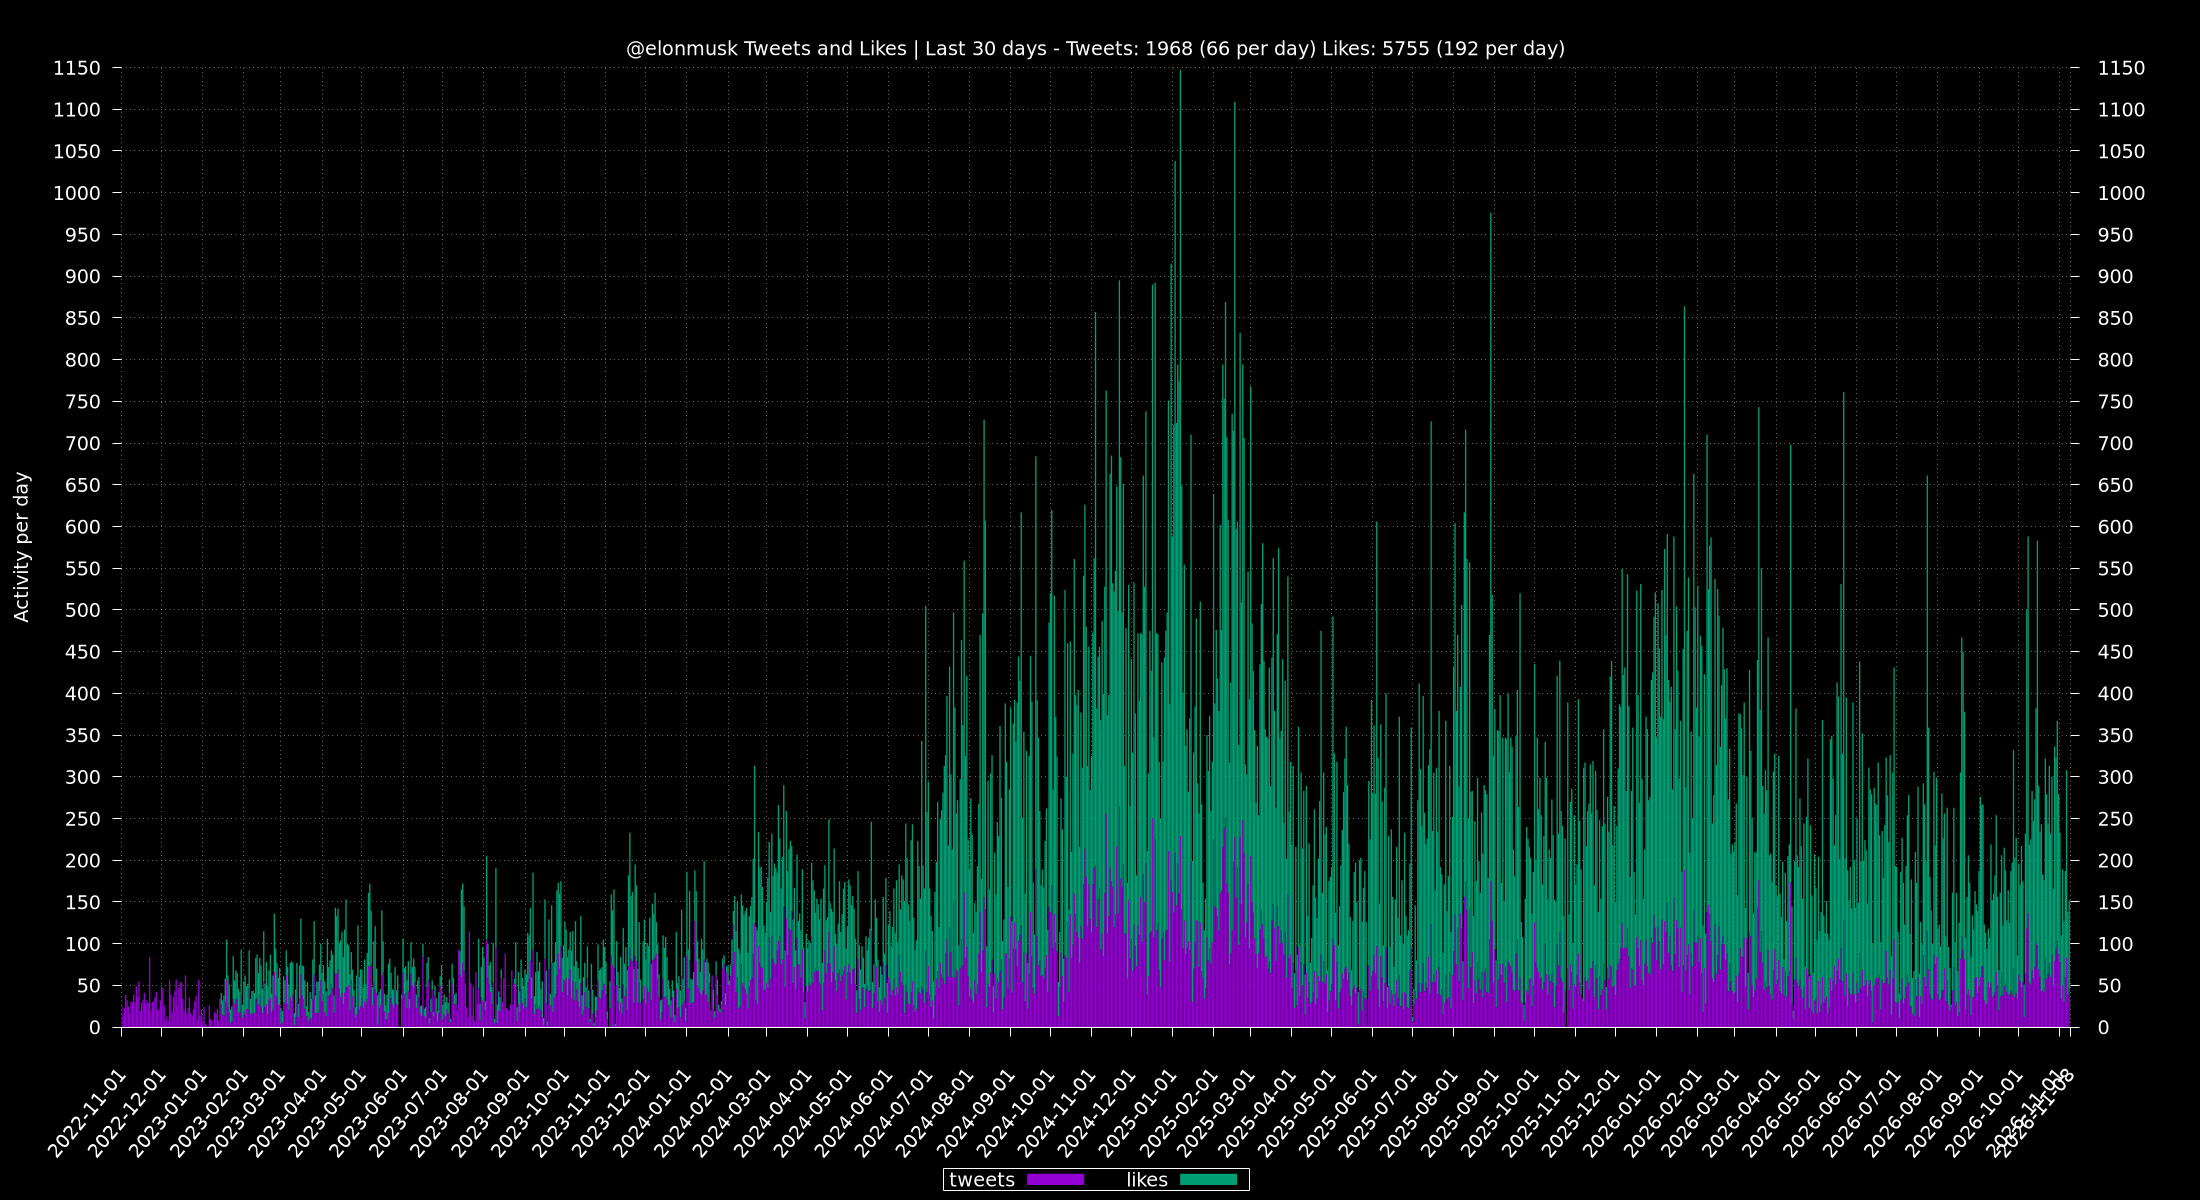
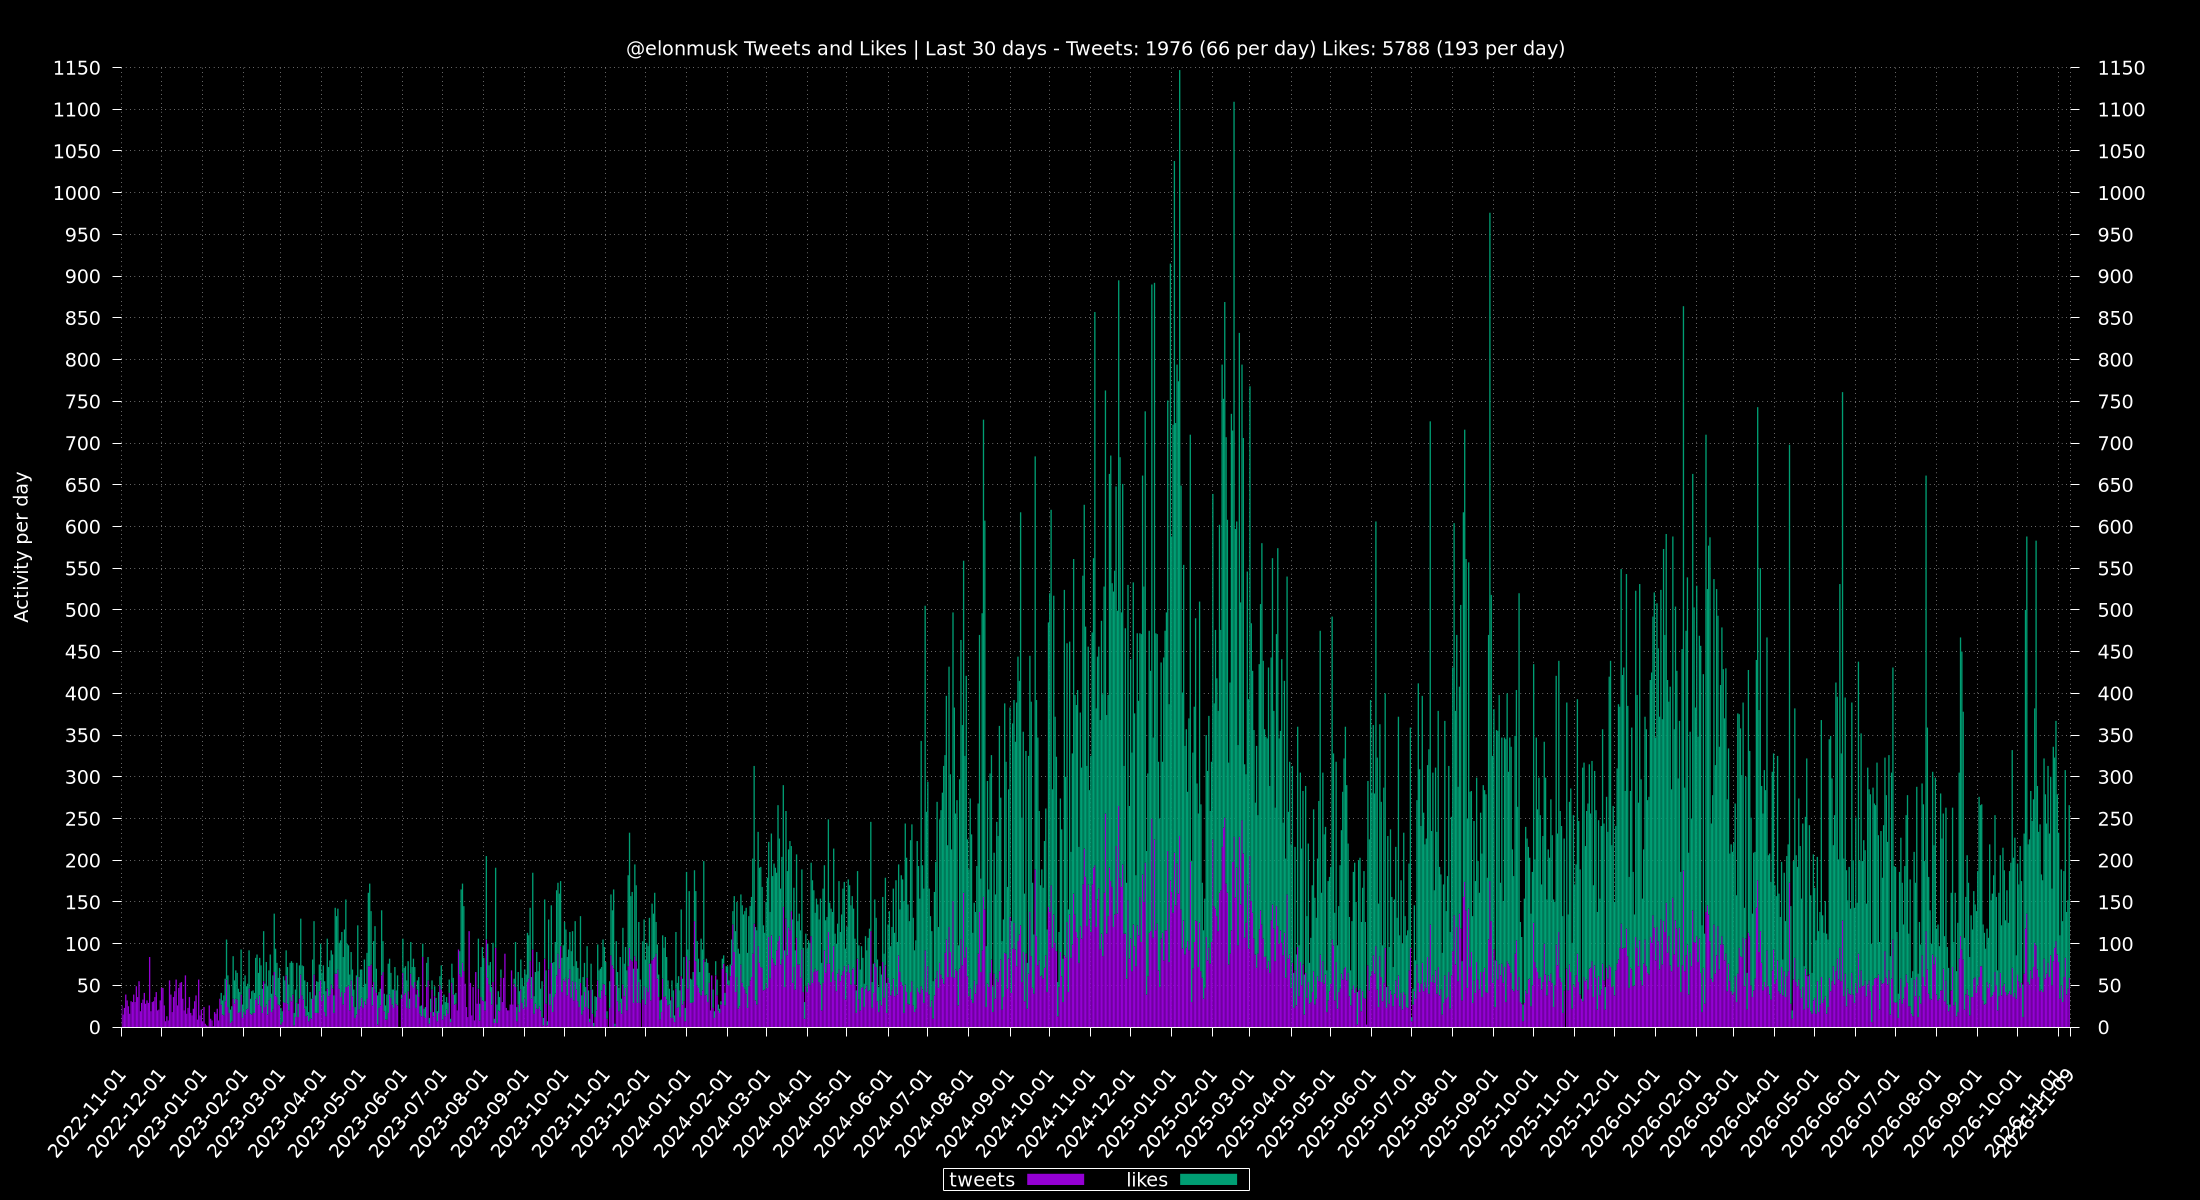
update via cron

Changed region(s): [[0.1545, 0.2158, 0.9582, 0.8633], [0.1545, 0.8942, 0.9273, 0.9558]]

diff --git a/totals/README.md b/totals/README.md
@@ -1,6 +1,6 @@
 ## Last 30 Days
-Tweets: 2022 (65 per day)\
-Likes: 5920 (191 per day)
+Tweets: 2027 (65 per day)\
+Likes: 5962 (192 per day)
 
 ## 24 Hours
 Max: [**341**](../misc/most-tweets_24-hr.csv) - From `2024-11-23 14:29:53 CST` To `2024-11-24 14:28:44 CST`
